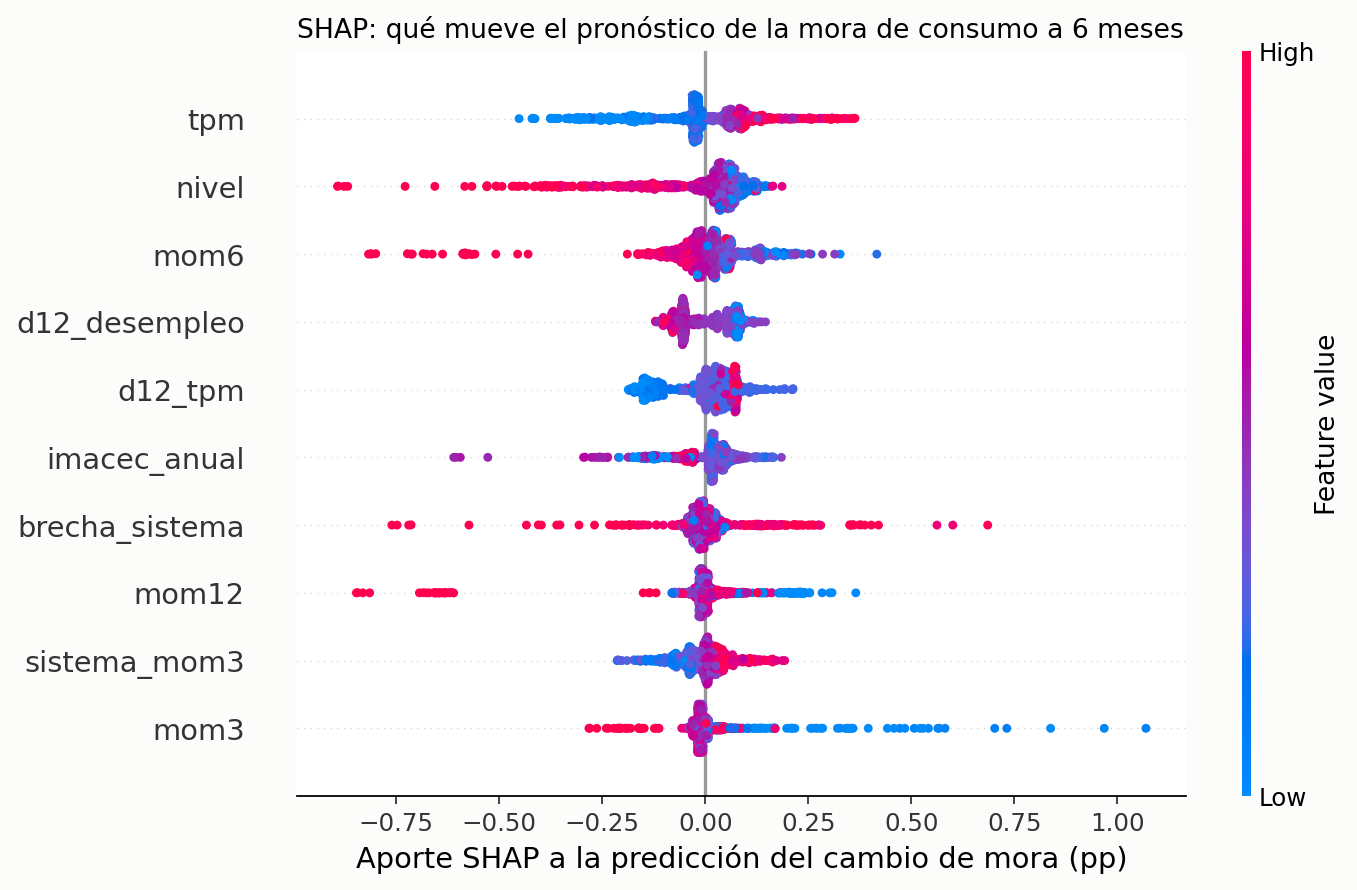
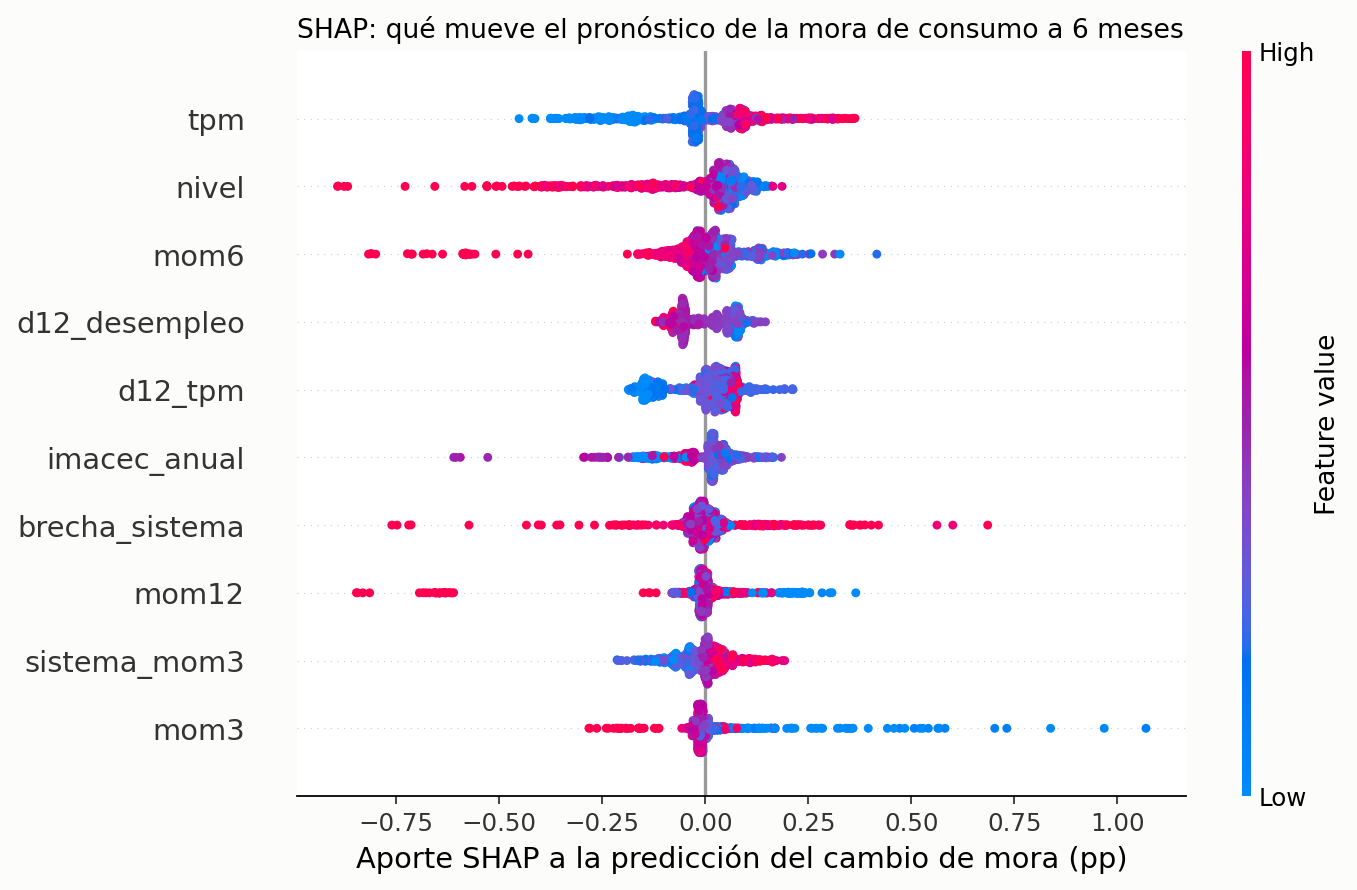
feat: out-of-sample check of bank-level stress, reproducible SHAP figure
- bank_conditional_backtest: projects each bank's 12-month change three
  ways (own satellite model, macro -> system -> bank beta, and the same
  beta given the actual system change) against no change. Pooled relative
  MAE 1.63, 1.22 and 0.98: bank arrears are mostly idiosyncratic, so the
  engine and API stay at system level and no per-bank losses are published
- Large consumer lenders do follow the system (BCI 0.53, Scotiabank 0.65,
  Itau 0.68, BancoEstado 0.75 with the actual system change)
- SHAP beeswarm jitter seeded locally so the figure is identical across runs
- README (EN/ES) and 139 tests

Changed region(s): [[0.4643, 0.091, 0.619, 0.8494], [0.4024, 0.182, 0.4333, 0.2124]]

diff --git a/src/cmf_delinquency/stress_test.py b/src/cmf_delinquency/stress_test.py
@@ -391,6 +391,63 @@ def bank_sensitivity(wide: pd.DataFrame, macro: pd.DataFrame, lag: int, min_obs:
     return table, {"beta_combinado": pooled, "q_cochran": q, "gl": int(len(table) - 1), "rezago": lag}
 
 
+BANK_MODES = ("macro_propio", "dos_etapas", "dos_etapas_oraculo")
+
+
+def _outside_covid(index: pd.DatetimeIndex) -> np.ndarray:
+    start, end = (pd.Timestamp(d) for d in COVID_RELIEF)
+    return np.asarray((index < start) | (index > end))
+
+
+def bank_conditional_backtest(wide: pd.DataFrame, system: pd.Series, macro: pd.DataFrame,
+                              start: str = "2023-01-01") -> pd.DataFrame:
+    """Validacion fuera de muestra de la prueba de tension a nivel de banco.
+
+    Para cada banco y mes ``t`` (estimando con datos hasta ``t-12``, sin la ventana COVID) compara tres
+    formas de proyectar el cambio a 12 meses de su mora con "no cambia":
+
+    * ``macro_propio``: el modelo satelite estimado sobre el banco (rezago y signos elegidos con el pasado).
+    * ``dos_etapas``: la macro proyecta el sistema (modelo satelite del sistema) y el banco responde al
+      sistema con su propio beta: d12 banco = a + g * d12 sistema. Un solo parametro por banco.
+    * ``dos_etapas_oraculo``: la segunda etapa con el cambio *real* del sistema. No es un pronostico; mide
+      cuanto del banco explica el ciclo comun aun conociendolo perfecto.
+    """
+    sys_bt = conditional_backtest(system, macro, start)
+    d_sys = system.diff(WINDOW)
+    rows = []
+    for bank in wide.columns:
+        series = wide[bank].dropna()
+        d_bank = series.diff(WINDOW)
+        own = conditional_backtest(series, macro, start) if len(series) > 60 else pd.DataFrame()
+        for t, sys_row in sys_bt.iterrows():
+            actual = d_bank.get(t)
+            if actual is None or pd.isna(actual):
+                continue
+            pair = pd.DataFrame({"y": d_bank, "x": d_sys}).loc[: t - pd.DateOffset(months=WINDOW)].dropna()
+            pair = pair[_outside_covid(pair.index)]
+            if len(pair) < 24:
+                continue
+            a, g = np.linalg.lstsq(np.column_stack([np.ones(len(pair)), pair["x"]]), pair["y"].to_numpy(), rcond=None)[0]
+            preds = {"dos_etapas": a + g * sys_row["pred"], "dos_etapas_oraculo": a + g * d_sys[t]}
+            if t in own.index:
+                preds["macro_propio"] = own.at[t, "pred"]
+            for mode, pred in preds.items():
+                rows.append({"date": t, "bank": bank, "mode": mode, "pred": float(pred), "actual": float(actual),
+                             "abs_err": abs(actual - pred), "abs_naive": abs(actual)})
+    return pd.DataFrame(rows)
+
+
+def bank_backtest_summary(errors: pd.DataFrame) -> pd.DataFrame:
+    """MAE relativo a "no cambia" por modo, agregado y banco por banco."""
+    pooled = errors.groupby("mode")[["abs_err", "abs_naive"]].mean()
+    pooled["rmae"] = pooled["abs_err"] / pooled["abs_naive"]
+    pooled["bank"] = "Todos"
+    per_bank = errors.groupby(["mode", "bank"])[["abs_err", "abs_naive"]].mean()
+    per_bank["rmae"] = per_bank["abs_err"] / per_bank["abs_naive"]
+    out = pd.concat([pooled.reset_index(), per_bank.reset_index()], ignore_index=True)
+    return out[["mode", "bank", "abs_err", "abs_naive", "rmae"]]
+
+
 def main() -> None:
     engine = CreditRiskStressEngine.from_csv()
     macro = pd.read_csv(MACRO_CSV, parse_dates=["month"]).set_index("month")

diff --git a/tests/test_stress.py b/tests/test_stress.py
@@ -223,3 +223,30 @@ def test_bank_sensitivity_and_cochran_q():
     assert table.loc["rapido", "lo"] < table.loc["rapido", "beta_tpm"] < table.loc["rapido", "hi"]
     assert het["gl"] == 1 and het["q_cochran"] > 3.84
     assert table["beta_tpm"].min() <= het["beta_combinado"] <= table["beta_tpm"].max()
+
+
+# ------------------------------------------------------------------------------- estres por banco
+def test_two_stage_oracle_recovers_a_bank_that_follows_the_system(panel, macro_real):
+    """Un banco que es exactamente 0,5 + 2 x sistema queda sin error en la etapa 2 con el cambio real."""
+    system = A.system_series(panel)["consumo"]
+    noise = np.random.default_rng(1).normal(0, 0.5, len(system))
+    wide = pd.DataFrame({"espejo": 0.5 + 2.0 * system, "ruido": system.mean() + noise}, index=system.index)
+    summary = S.bank_backtest_summary(S.bank_conditional_backtest(wide, system, macro_real, start="2025-01-01"))
+    oracle = summary[summary["mode"] == "dos_etapas_oraculo"].set_index("bank")
+    assert oracle.loc["espejo", "abs_err"] < 1e-9
+    assert oracle.loc["ruido", "rmae"] > oracle.loc["espejo", "rmae"]
+    assert set(summary["mode"]) == set(S.BANK_MODES) and "Todos" in set(summary["bank"])
+
+
+def test_bank_backtest_never_uses_the_future_of_the_bank(panel, macro_real):
+    """Alterar la mora del banco despues de t-12 cambia el valor real en t, pero no la prediccion."""
+    system = A.system_series(panel)["consumo"]
+    base = pd.DataFrame({"b": 1.0 + 0.8 * system}, index=system.index)
+    t = pd.Timestamp("2025-06-01")
+    shocked = base.copy()
+    shocked.loc[shocked.index > t - pd.DateOffset(months=12), "b"] += 5.0
+    pick = lambda e: e[(e["date"] == t) & (e["mode"] == "dos_etapas")].iloc[0]  # noqa: E731
+    a = pick(S.bank_conditional_backtest(base, system, macro_real, start="2025-06-01"))
+    b = pick(S.bank_conditional_backtest(shocked, system, macro_real, start="2025-06-01"))
+    assert a["pred"] == pytest.approx(b["pred"])
+    assert b["actual"] == pytest.approx(a["actual"] + 5.0)

diff --git a/src/cmf_delinquency/pipeline.py b/src/cmf_delinquency/pipeline.py
@@ -168,6 +168,9 @@ def stress_study(panel: pd.DataFrame, macro_raw: pd.DataFrame, loan_mix: pd.Data
     consumer_lag = engine.fits["consumo"].lag
     banks = B.eligible_banks(panel, "consumo")
     bank_table, heterogeneity = S.bank_sensitivity(B.wide_series(panel, banks, "consumo"), macro_raw, consumer_lag)
+    bank_bt = S.bank_backtest_summary(S.bank_conditional_backtest(B.wide_series(panel, banks, "consumo"), system["consumo"],
+                                                                  macro_raw, start=STRESS_BACKTEST_START))
+    bank_bt.to_csv(TABLES / "stress_bank_backtest.csv", index=False)
     bank_table.to_csv(TABLES / "stress_bank_tpm_consumo.csv")
     plots.fig_bank_tpm(bank_table, heterogeneity, FIGS / "12_estres_bancos_tpm.png")
     profile = B.loan_mix_profile(loan_mix)
@@ -189,6 +192,7 @@ def stress_study(panel: pd.DataFrame, macro_raw: pd.DataFrame, loan_mix: pd.Data
         "escenarios": grid[keep].to_dict(orient="records"),
         "validacion_condicional": bt_rows,
         "sensibilidad_rezago": lag_rows,
+        "validacion_por_banco": bank_bt.to_dict(orient="records"),
         "bancos_consumo_tpm": {**heterogeneity, "bancos": bank_table.join(profile).reset_index().to_dict(orient="records"),
                                "explicacion_spearman": explained.reset_index().to_dict(orient="records"),
                                "meses_composicion": sorted(loan_mix["month"].unique().tolist())},

diff --git a/src/cmf_delinquency/models/ml_shap.py b/src/cmf_delinquency/models/ml_shap.py
@@ -209,7 +209,14 @@ def shap_summary_plot(report: ShapReport, path: Path) -> Path:
     import shap
 
     plt.figure(figsize=(9, 5.5))
-    shap.summary_plot(report.values, report.features, show=False, plot_size=None, color_bar=True)
+    # summary_plot dispersa los puntos con el generador global de numpy: se fija solo mientras dibuja
+    # para que la figura sea identica entre corridas, y despues se restaura el estado anterior.
+    state = np.random.get_state()
+    np.random.seed(SEED)
+    try:
+        shap.summary_plot(report.values, report.features, show=False, plot_size=None, color_bar=True)
+    finally:
+        np.random.set_state(state)
     ax = plt.gca()
     ax.set_title(f"SHAP: qué mueve el pronóstico de la mora de consumo a {report.horizon} meses", loc="left", fontsize=12)
     ax.set_xlabel("Aporte SHAP a la predicción del cambio de mora (pp)")

diff --git a/README.es.md b/README.es.md
@@ -212,6 +212,16 @@ BancoEstado (+0,15 pp por cada 100 pb), BCI (+0,12), Scotiabank (+0,10) e Itaú 
 
 BancoEstado (7,5% en consumo) y BCI (8,0%) son los más sensibles y tienen *menos* consumo que Santander (14,5%) o el Banco de Chile (13,9%), así que la composición de la cartera no es la explicación. Un canal por ingreso de los clientes es plausible pero no está probado: la CMF no publica el ingreso de los deudores por banco.
 
+**¿Se puede bajar la prueba de tensión a cada banco?** No con estos datos. Fuera de muestra (2023–2026, mismo protocolo), relativo a "sin cambio" y agregando los 10 bancos:
+
+| Cómo se proyecta el cambio a 12 meses de cada banco | MAE relativo |
+|---|---|
+| Modelo satélite estimado sobre el propio banco | 1,63 |
+| Dos etapas: macro → sistema (modelo validado) → banco con su propio beta al sistema | 1,22 |
+| La misma segunda etapa, con el cambio *real* del sistema (no es un pronóstico) | 0,98 |
+
+Aun conociendo perfecto la trayectoria del sistema, el beta de un banco al sistema apenas le gana a "sin cambio": la mayor parte del movimiento de un banco es propio, no del ciclo común. La excepción son los grandes prestamistas de consumo, que sí siguen al sistema (BCI 0,53, Scotiabank 0,65, Itaú 0,68 y BancoEstado 0,75 con el cambio real del sistema). Los bancos de nicho no (Consorcio 1,95, Internacional 2,29). Por eso el motor y la API reportan el estrés solo a nivel de sistema, y no publico pérdidas por banco.
+
 **Escenarios**, todos como shocks a 12 meses. Los dos históricos repiten los cambios efectivamente observados en los 12 meses hasta esa fecha:
 
 | Escenario | TPM | Desempleo | IMACEC | Mora consumo | Mora total | Total vs base | Pérdida adicional vs base |
@@ -289,7 +299,7 @@ python -m cmf_delinquency.pipeline                   # descarga primero los 128 
 python -m cmf_delinquency.stress_test               # escenarios de estrés en la terminal
 python -m cmf_delinquency.warehouse                  # almacén DuckDB en warehouse/
 uvicorn cmf_delinquency.api:app --port 8000          # API REST (o: docker compose up --build)
-pytest                                               # 137 tests, sin red
+pytest                                               # 139 tests, sin red
 ```
 
 Salidas: `reports/results.json`, `reports/tables/*.csv`, `reports/figures/*.png`.
@@ -312,7 +322,7 @@ src/cmf_delinquency/
   site.py       genera la página de GitHub Pages (docs/index.html) desde el panel y results.json
   pipeline.py   de punta a punta
 docs/           el sitio de GitHub Pages (generado; no se edita a mano)
-tests/          137 tests: archivos sintéticos en ambos formatos + chequeos de integridad sobre el panel real + chequeos macro, por banco, de la página, de no mirar hacia adelante, de estrés, del almacén y de la API
+tests/          139 tests: archivos sintéticos en ambos formatos + chequeos de integridad sobre el panel real + chequeos macro, por banco, de la página, de no mirar hacia adelante, de estrés, del almacén y de la API
 Dockerfile, docker-compose.yml   contenedor de la API (y un job batch para el almacén)
 ```
 

diff --git a/README.md b/README.md
@@ -212,6 +212,16 @@ BancoEstado (+0.15 pp per 100 bp), BCI (+0.12), Scotiabank (+0.10) and Itaú (+0
 
 BancoEstado (7.5% consumer) and BCI (8.0%) are the most sensitive banks with *less* consumer lending than Santander (14.5%) or Banco de Chile (13.9%), so the loan mix is not the explanation. A client-income channel is plausible but untested: the CMF does not publish borrower income by bank.
 
+**Can the stress test be taken down to each bank?** Not with these data. Out of sample (2023–2026, same protocol), relative to "no change", pooled over the 10 banks:
+
+| How each bank's 12-month change is projected | Relative MAE |
+|---|---|
+| Satellite model estimated on the bank itself | 1.63 |
+| Two stages: macro → system (validated model) → bank via its own beta to the system | 1.22 |
+| Same second stage, given the *actual* system change (not a forecast) | 0.98 |
+
+Even knowing the system's path perfectly, a bank's beta to the system barely beats no change: most of a bank's movement is its own, not the common cycle. The exception is the large consumer lenders, which do follow the system (BCI 0.53, Scotiabank 0.65, Itaú 0.68, BancoEstado 0.75 with the actual system change). Niche banks (Consorcio 1.95, Internacional 2.29) do not. So the engine and the API report system-level stress only, and I do not publish loss figures by bank.
+
 **Scenarios**, all as 12-month shocks. The two historical ones replay the changes actually observed in the 12 months to that date:
 
 | Scenario | TPM | Unemployment | IMACEC | Consumer arrears | Total arrears | Total vs base | Extra loss vs base |
@@ -289,7 +299,7 @@ python -m cmf_delinquency.pipeline                   # downloads the 128 files a
 python -m cmf_delinquency.stress_test               # stress scenarios in the terminal
 python -m cmf_delinquency.warehouse                  # DuckDB warehouse in warehouse/
 uvicorn cmf_delinquency.api:app --port 8000          # REST API (or: docker compose up --build)
-pytest                                               # 137 tests, no network
+pytest                                               # 139 tests, no network
 ```
 
 Outputs: `reports/results.json`, `reports/tables/*.csv`, `reports/figures/*.png`.
@@ -312,7 +322,7 @@ src/cmf_delinquency/
   site.py       builds the GitHub Pages page (docs/index.html) from the panel and results.json
   pipeline.py   end to end
 docs/           the GitHub Pages site (generated; do not edit by hand)
-tests/          137 tests: synthetic files in both layouts + integrity checks on the real panel + macro, per-bank, page, no-look-ahead, stress, warehouse and API checks
+tests/          139 tests: synthetic files in both layouts + integrity checks on the real panel + macro, per-bank, page, no-look-ahead, stress, warehouse and API checks
 Dockerfile, docker-compose.yml   container for the API (and a batch job for the warehouse)
 ```
 
